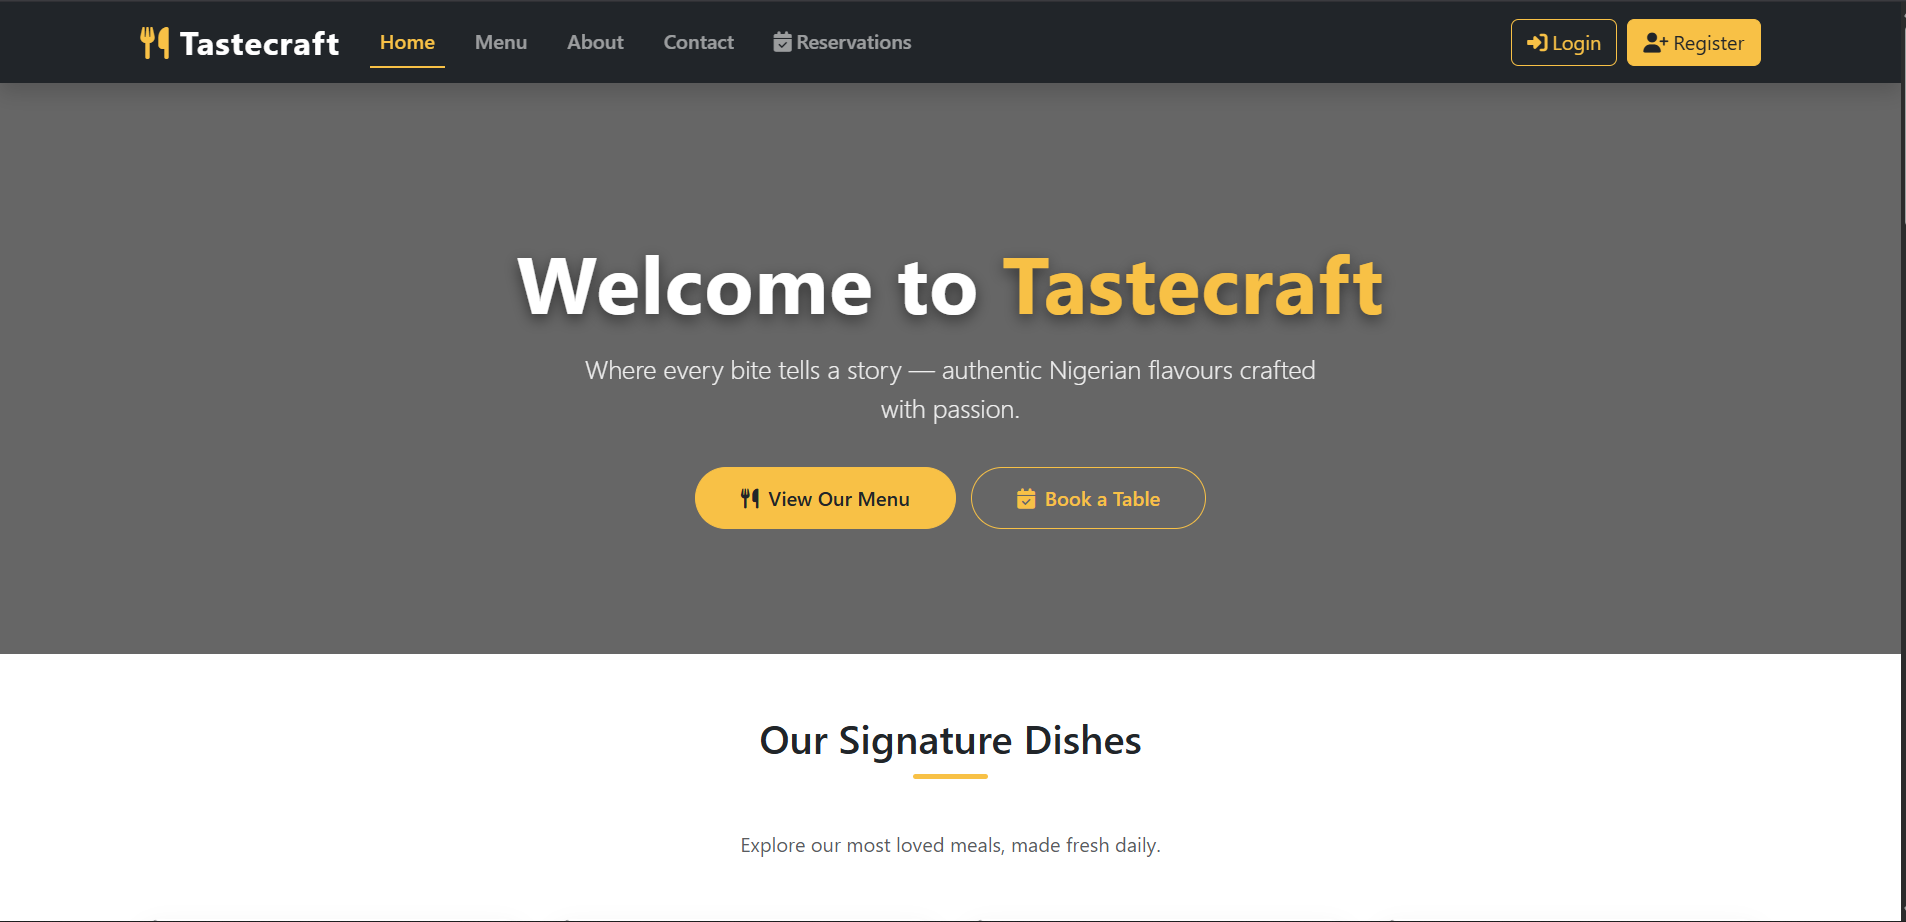
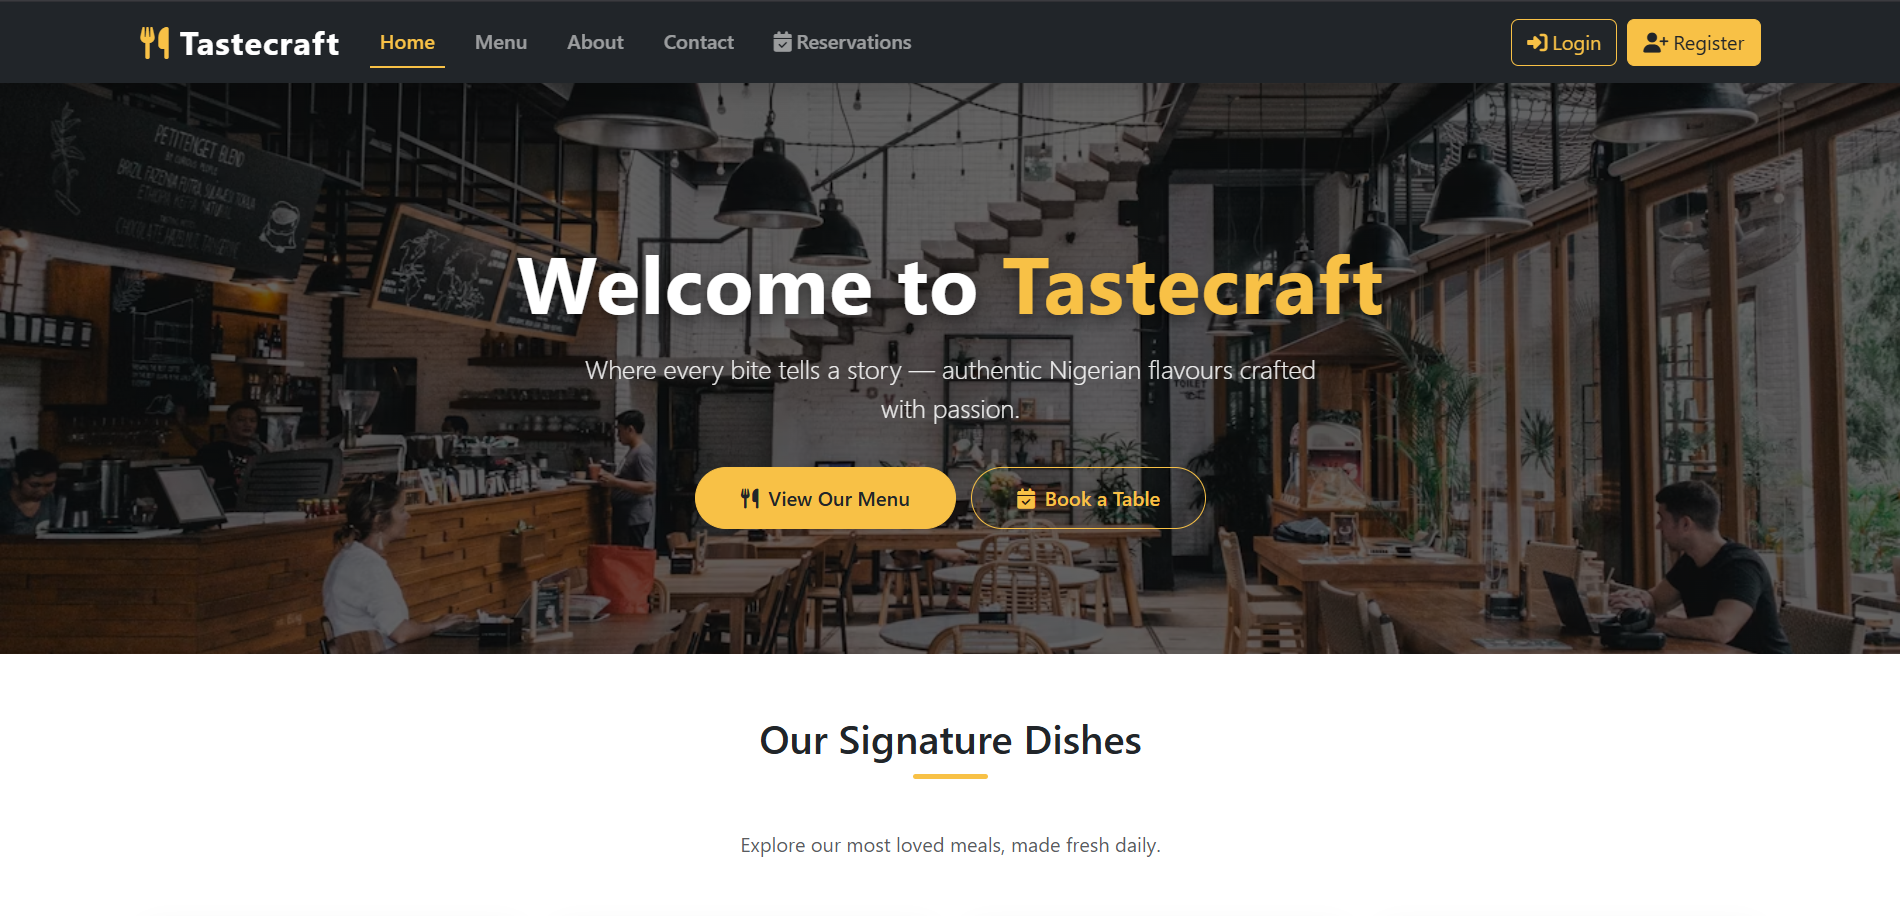
first commit

diff --git a/index.html b/index.html
@@ -1316,6 +1316,71 @@
                 transform: translateY(0) scale(1);
             }
         }
+
+            /* ═══════════════════════ BOTTOM-RIGHT UI ═══════════════════════ */
+            .br-bottom {
+                position: fixed;
+                right: 20px;
+                bottom: 20px;
+                display: flex;
+                flex-direction: column;
+                gap: 12px;
+                z-index: 700;
+                align-items: flex-end;
+            }
+            .br-btn {
+                width: 56px;
+                height: 56px;
+                border-radius: 12px;
+                background: var(--surface);
+                border: 1px solid var(--border);
+                box-shadow: 0 10px 30px var(--shadow-md);
+                display: inline-grid;
+                place-items: center;
+                cursor: pointer;
+                position: relative;
+                overflow: hidden;
+                color: var(--ink);
+                transition: transform 0.12s ease, box-shadow 0.12s ease;
+            }
+            .br-btn:active { transform: translateY(1px); }
+            .br-btn .bi { color: var(--orange); font-size: 1.25rem; }
+
+            /* contact panel */
+            .br-contact-panel {
+                position: absolute;
+                right: 70px;
+                bottom: 0;
+                width: 340px;
+                max-width: calc(100vw - 100px);
+                background: var(--surface);
+                border: 1px solid var(--border);
+                border-radius: 12px;
+                padding: 12px;
+                box-shadow: 0 20px 60px var(--shadow-md);
+                transform: translateY(12px) scale(0.98);
+                opacity: 0;
+                visibility: hidden;
+                transition: transform 0.16s ease, opacity 0.14s ease, visibility 0.16s;
+            }
+            .br-contact-panel.open {
+                transform: translateY(0) scale(1);
+                opacity: 1;
+                visibility: visible;
+            }
+            .br-contact-panel form{ display:flex; flex-direction:column; gap:8px; }
+            .br-contact-panel input, .br-contact-panel textarea {
+                width:100%; padding:8px 10px; border:1px solid var(--border); border-radius:8px; background:var(--bg); color:var(--ink); font-family:inherit;
+            }
+            .br-contact-panel textarea{ min-height:84px; resize:vertical }
+            .br-contact-row{ display:flex; gap:8px }
+            .br-send { background:var(--orange); color:#fff; border:none; padding:8px 12px; border-radius:8px; cursor:pointer }
+            .br-close { position:absolute; top:8px; right:8px; background:none; border:1px solid var(--border); border-radius:8px; padding:6px; cursor:pointer }
+
+            /* back-to-top progress fill */
+            .br-back { position: relative; }
+            .br-back::before{ content:''; position:absolute; left:0; top:0; bottom:0; width:var(--progress,0%); background:linear-gradient(90deg,var(--orange), color-mix(in srgb,var(--orange) 70%, #000)); opacity:0.12; transition:width 0.12s linear; pointer-events:none }
+
     </style>
 </head>
 
@@ -1601,7 +1666,7 @@
                         </div>
                         <div class="project-links">
                             <a href="#" class="project-link">Live demo →</a>
-                            <a href="https://github.com/Ogunlade-Daniel/Marvellan_Hotel" class="project-link">GitHub →</a>
+                            <a href="https://github.com/Ogunlade-Daniel/TastecraftMe" class="project-link">GitHub →</a>
                         </div>
                     </div>
                 </div>
@@ -1618,7 +1683,7 @@
                         </div>
                         <div class="project-links">
                             <a href="#" class="project-link">Live demo →</a>
-                            <a href="#" class="project-link">GitHub →</a>
+                            <a href="https://github.com/Ogunlade-Daniel/Marvellan_Hotel" class="project-link">GitHub →</a>
                         </div>
                     </div>
                 </div>
@@ -1743,6 +1808,30 @@
         </div>
     </footer>
 
+    <!-- ═══════════════════════ BOTTOM-RIGHT CONTROLS ═══════════════════════ -->
+    <div class="br-bottom" aria-hidden="false">
+        <div style="position:relative;">
+            <div id="contactPanel" class="br-contact-panel" role="dialog" aria-label="Contact form">
+                <button class="br-close" id="brClose" aria-label="Close"><i class="bi bi-x-lg"></i></button>
+                <form id="brContactForm">
+                    <input type="text" id="brName" name="name" placeholder="Your name" required />
+                    <input type="email" id="brEmail" name="email" placeholder="Your email" required />
+                    <textarea id="brMessage" name="message" placeholder="Message" required></textarea>
+                    <div style="display:flex;justify-content:flex-end;gap:8px;margin-top:6px;">
+                        <button type="submit" class="br-send">Send</button>
+                    </div>
+                </form>
+            </div>
+            <button id="contactToggleBtn" class="br-btn" aria-label="Open contact form" title="Contact">
+                <i class="bi bi-envelope"></i>
+            </button>
+        </div>
+
+        <button id="backTopBtn" class="br-btn br-back" aria-label="Back to top" title="Back to top">
+            <i class="bi bi-arrow-up"></i>
+        </button>
+    </div>
+
     <!-- ═══════════════════════ SCRIPTS ═══════════════════════ -->
     <script>
         // ── Nav scroll state ──
@@ -1835,6 +1924,52 @@
 
         window.addEventListener('resize', () => {
             if (window.innerWidth > 900) closeMobileNav();
+        });
+
+        // ── Bottom-right contact & back-to-top ──
+        const contactToggleBtn = document.getElementById('contactToggleBtn');
+        const contactPanel = document.getElementById('contactPanel');
+        const brClose = document.getElementById('brClose');
+        const brContactForm = document.getElementById('brContactForm');
+        const backTopBtn = document.getElementById('backTopBtn');
+
+        contactToggleBtn.addEventListener('click', (e) => {
+            e.stopPropagation();
+            contactPanel.classList.toggle('open');
+        });
+        brClose.addEventListener('click', () => contactPanel.classList.remove('open'));
+        document.addEventListener('click', (e) => {
+            if (!contactPanel.contains(e.target) && e.target !== contactToggleBtn) contactPanel.classList.remove('open');
+        });
+
+        brContactForm.addEventListener('submit', (e) => {
+            e.preventDefault();
+            const name = document.getElementById('brName').value.trim();
+            const email = document.getElementById('brEmail').value.trim();
+            const message = document.getElementById('brMessage').value.trim();
+            const subject = encodeURIComponent(`Portfolio contact from ${name || email}`);
+            const body = encodeURIComponent(`Name: ${name}%0AEmail: ${email}%0A%0A${message}`);
+            // open mail client
+            window.location.href = `mailto:ogunladedaniel12@gmail.com?subject=${subject}&body=${body}`;
+            contactPanel.classList.remove('open');
+            brContactForm.reset();
+        });
+
+        // Back-to-top progress fill animation
+        function updateBackProgress(){
+            const scrolled = window.scrollY || document.documentElement.scrollTop;
+            const h = document.documentElement.scrollHeight - window.innerHeight;
+            const pct = h > 0 ? Math.min(100, Math.round((scrolled / h) * 100)) : 0;
+            backTopBtn.style.setProperty('--progress', pct + '%');
+        }
+
+        window.addEventListener('scroll', updateBackProgress);
+        updateBackProgress();
+
+        backTopBtn.addEventListener('click', () => {
+            // animate fill backwards quickly
+            backTopBtn.style.setProperty('--progress', '0%');
+            window.scrollTo({ top: 0, behavior: 'smooth' });
         });
     </script>
 

diff --git a/dev-dashboard.html b/dev-dashboard.html
@@ -1200,6 +1200,20 @@
                 font-size: 0.6rem;
             }
         }
+
+        /* BOTTOM-RIGHT UI */
+        .br-bottom{ position: fixed; right:20px; bottom:20px; display:flex; flex-direction:column; gap:12px; z-index:700; align-items:flex-end }
+        .br-btn{ width:56px; height:56px; border-radius:12px; background:var(--surface); border:1px solid var(--border); box-shadow:0 10px 30px var(--shadow-md); display:inline-grid; place-items:center; cursor:pointer; position:relative; overflow:hidden; color:var(--ink); transition:transform .12s, box-shadow .12s }
+        .br-btn .bi{ color:var(--orange); font-size:1.25rem }
+        .br-contact-panel{ position:absolute; right:70px; bottom:0; width:340px; max-width:calc(100vw - 100px); background:var(--surface); border:1px solid var(--border); border-radius:12px; padding:12px; box-shadow:0 20px 60px var(--shadow-md); transform:translateY(12px) scale(.98); opacity:0; visibility:hidden; transition:transform .16s, opacity .14s, visibility .16s }
+        .br-contact-panel.open{ transform:translateY(0) scale(1); opacity:1; visibility:visible }
+        .br-contact-panel form{ display:flex; flex-direction:column; gap:8px }
+        .br-contact-panel input, .br-contact-panel textarea{ width:100%; padding:8px 10px; border:1px solid var(--border); border-radius:8px; background:var(--bg); color:var(--ink) }
+        .br-contact-panel textarea{ min-height:84px }
+        .br-close{ position:absolute; top:8px; right:8px; background:none; border:1px solid var(--border); border-radius:8px; padding:6px; cursor:pointer }
+        .br-send{ background:var(--orange); color:#fff; border:none; padding:8px 12px; border-radius:8px; cursor:pointer }
+        .br-back{ position:relative }
+        .br-back::before{ content:''; position:absolute; left:0; top:0; bottom:0; width:var(--progress,0%); background:linear-gradient(90deg,var(--orange), color-mix(in srgb,var(--orange) 70%, #000)); opacity:.12; transition:width .12s linear; pointer-events:none }
     </style>
 </head>
 
@@ -1469,6 +1483,30 @@
             </div>
         </div>
     </footer>
+
+    <!-- BOTTOM-RIGHT CONTROLS -->
+    <div class="br-bottom" aria-hidden="false">
+        <div style="position:relative;">
+            <div id="contactPanel" class="br-contact-panel" role="dialog" aria-label="Contact form">
+                <button class="br-close" id="brClose" aria-label="Close"><i class="bi bi-x-lg"></i></button>
+                <form id="brContactForm">
+                    <input type="text" id="brName" name="name" placeholder="Your name" required />
+                    <input type="email" id="brEmail" name="email" placeholder="Your email" required />
+                    <textarea id="brMessage" name="message" placeholder="Message" required></textarea>
+                    <div style="display:flex;justify-content:flex-end;gap:8px;margin-top:6px;">
+                        <button type="submit" class="br-send">Send</button>
+                    </div>
+                </form>
+            </div>
+            <button id="contactToggleBtn" class="br-btn" aria-label="Open contact form" title="Contact">
+                <i class="bi bi-envelope"></i>
+            </button>
+        </div>
+
+        <button id="backTopBtn" class="br-btn br-back" aria-label="Back to top" title="Back to top">
+            <i class="bi bi-arrow-up"></i>
+        </button>
+    </div>
 
     <script>
         // ── Nav scroll state ──
@@ -1754,6 +1792,39 @@
         // Repaint when theme changes
         const themeObserver = new MutationObserver(paintGraphLevels);
         themeObserver.observe(html, { attributes: true, attributeFilter: ['data-theme'] });
+
+        // BOTTOM-RIGHT: contact & back-to-top
+        const contactToggleBtn = document.getElementById('contactToggleBtn');
+        const contactPanel = document.getElementById('contactPanel');
+        const brClose = document.getElementById('brClose');
+        const brContactForm = document.getElementById('brContactForm');
+        const backTopBtn = document.getElementById('backTopBtn');
+
+        contactToggleBtn.addEventListener('click', (e) => { e.stopPropagation(); contactPanel.classList.toggle('open'); });
+        brClose.addEventListener('click', () => contactPanel.classList.remove('open'));
+        document.addEventListener('click', (e) => { if (!contactPanel.contains(e.target) && e.target !== contactToggleBtn) contactPanel.classList.remove('open'); });
+
+        brContactForm.addEventListener('submit', (e) => {
+            e.preventDefault();
+            const name = document.getElementById('brName').value.trim();
+            const email = document.getElementById('brEmail').value.trim();
+            const message = document.getElementById('brMessage').value.trim();
+            const subject = encodeURIComponent(`Portfolio contact from ${name || email}`);
+            const body = encodeURIComponent(`Name: ${name}%0AEmail: ${email}%0A%0A${message}`);
+            window.location.href = `mailto:ogunladedaniel12@gmail.com?subject=${subject}&body=${body}`;
+            contactPanel.classList.remove('open');
+            brContactForm.reset();
+        });
+
+        function updateBackProgress(){
+            const scrolled = window.scrollY || document.documentElement.scrollTop;
+            const h = document.documentElement.scrollHeight - window.innerHeight;
+            const pct = h > 0 ? Math.min(100, Math.round((scrolled / h) * 100)) : 0;
+            backTopBtn.style.setProperty('--progress', pct + '%');
+        }
+        window.addEventListener('scroll', updateBackProgress);
+        updateBackProgress();
+        backTopBtn.addEventListener('click', () => { backTopBtn.style.setProperty('--progress', '0%'); window.scrollTo({ top: 0, behavior: 'smooth' }); });
     </script>
 
 </body>
